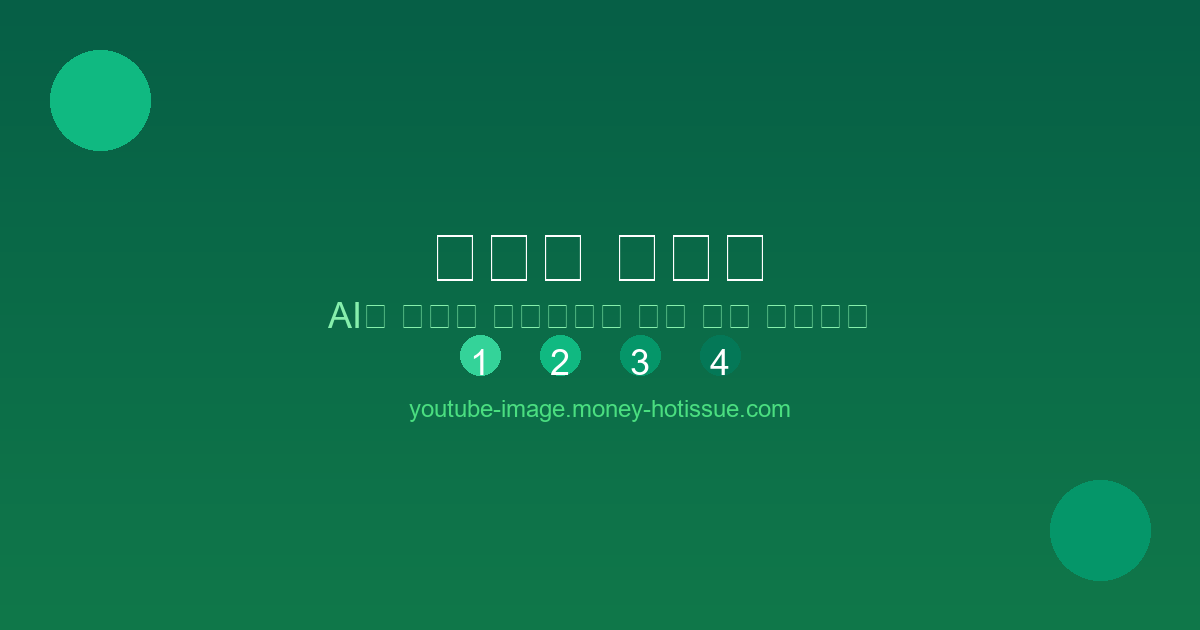
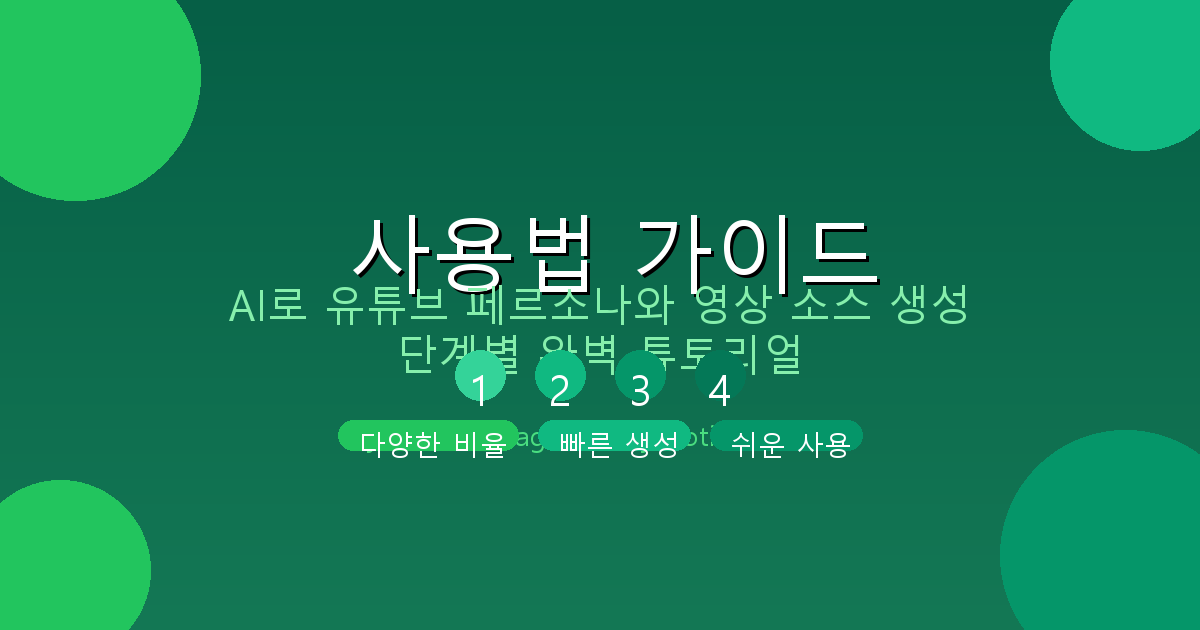
fix: 링크박스 미리보기 이미지 개선
이미지 품질 개선:
- API 발급 가이드 미리보기 이미지 고품질 재생성
- 사용법 가이드 미리보기 이미지 고품질 재생성
- Open Graph 표준 사이즈 (1200x630) 적용
- 더 선명한 그라데이션과 장식 요소 추가

 메타데이터 개선:
- og:image:width, og:image:height 태그 추가
- og:image:type PNG 명시
- og:locale ko_KR 설정
- Twitter 카드 이미지 크기 정보 추가

 디자인 향상:
- 그림자 효과로 텍스트 가독성 개선
- 단계별 원형 표시 (사용법 가이드)
- 특징 배지 디자인 개선
- 중앙정렬 디스플레이 광고 적용

diff --git a/components/MetaTags.tsx b/components/MetaTags.tsx
@@ -45,14 +45,20 @@ const MetaTags: React.FC<MetaTagsProps> = ({
         updateMetaTag('og:description', description);
         updateMetaTag('og:url', url);
         updateMetaTag('og:image', `https://youtube-image.money-hotissue.com${image}`);
+        updateMetaTag('og:image:width', '1200');
+        updateMetaTag('og:image:height', '630');
+        updateMetaTag('og:image:type', 'image/png');
         updateMetaTag('og:type', type);
         updateMetaTag('og:site_name', '유튜브 롱폼 이미지 생성기');
+        updateMetaTag('og:locale', 'ko_KR');
         
         // Twitter 메타 태그 설정
         updateNameMetaTag('twitter:card', 'summary_large_image');
         updateNameMetaTag('twitter:title', title);
         updateNameMetaTag('twitter:description', description);
         updateNameMetaTag('twitter:image', `https://youtube-image.money-hotissue.com${image}`);
+        updateNameMetaTag('twitter:image:width', '1200');
+        updateNameMetaTag('twitter:image:height', '630');
         
         // 일반 메타 태그 설정
         updateNameMetaTag('description', description);

diff --git a/App.tsx b/App.tsx
@@ -633,7 +633,9 @@ const App: React.FC = () => {
                     )}
 
                     {/* 페르소나와 영상 소스 사이 디스플레이 광고 */}
-                    <DisplayAd />
+                    <div className="flex justify-center">
+                        <DisplayAd />
+                    </div>
 
                     {/* 3단계는 항상 표시 */}
                     <section className="bg-gray-800 p-6 rounded-xl shadow-2xl">
